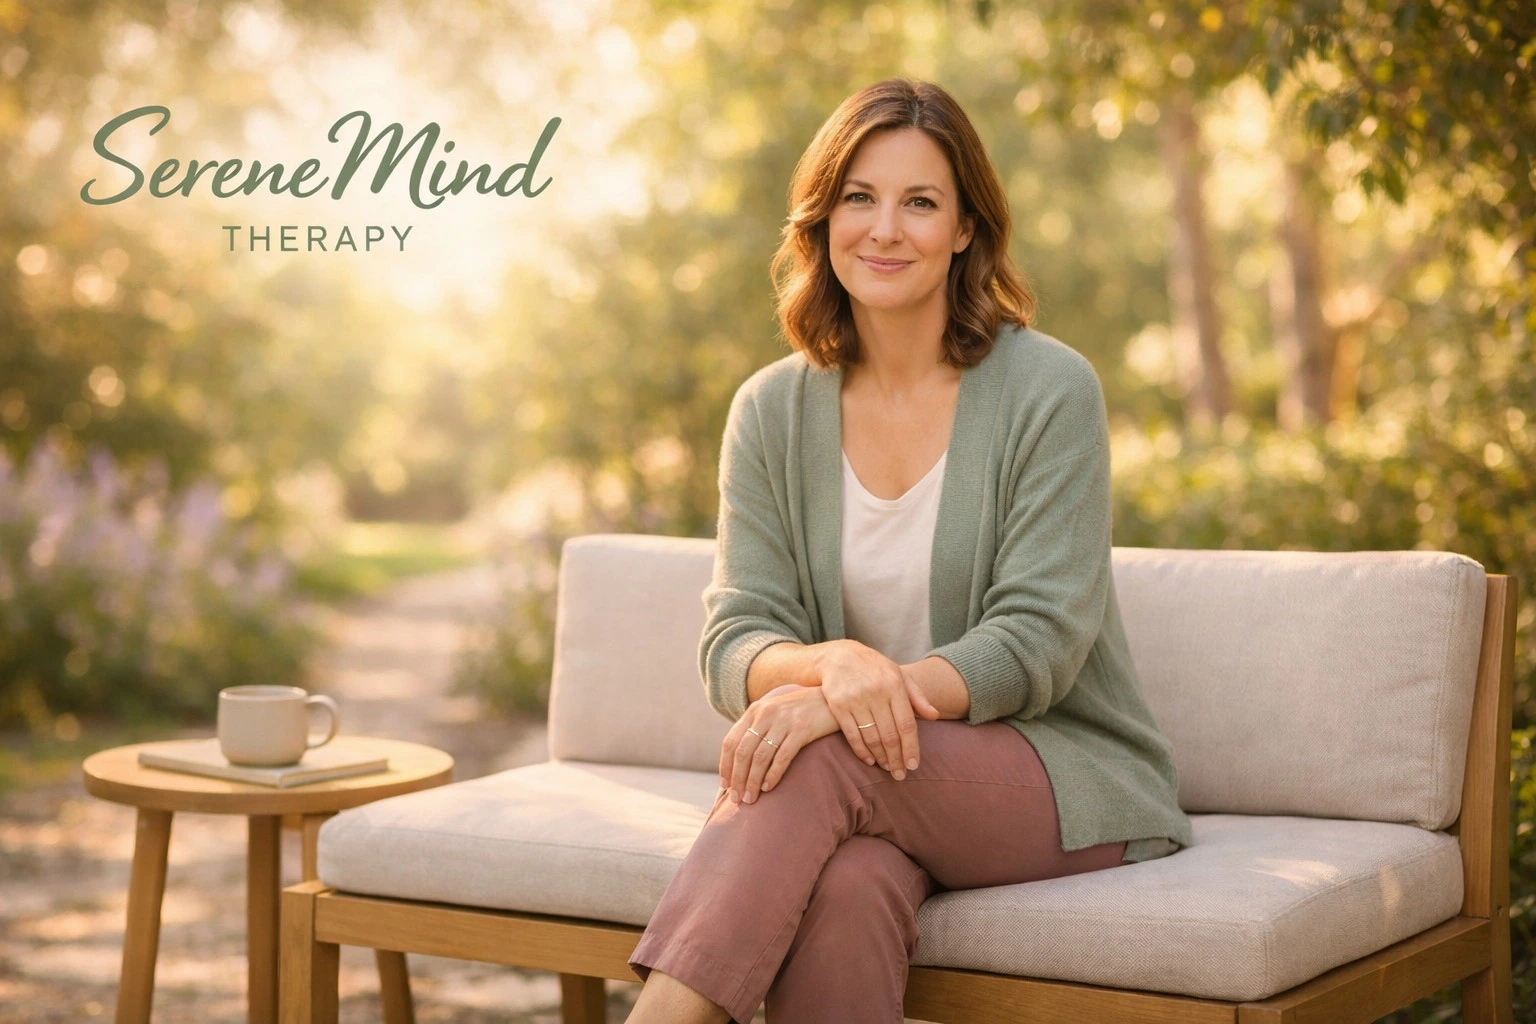
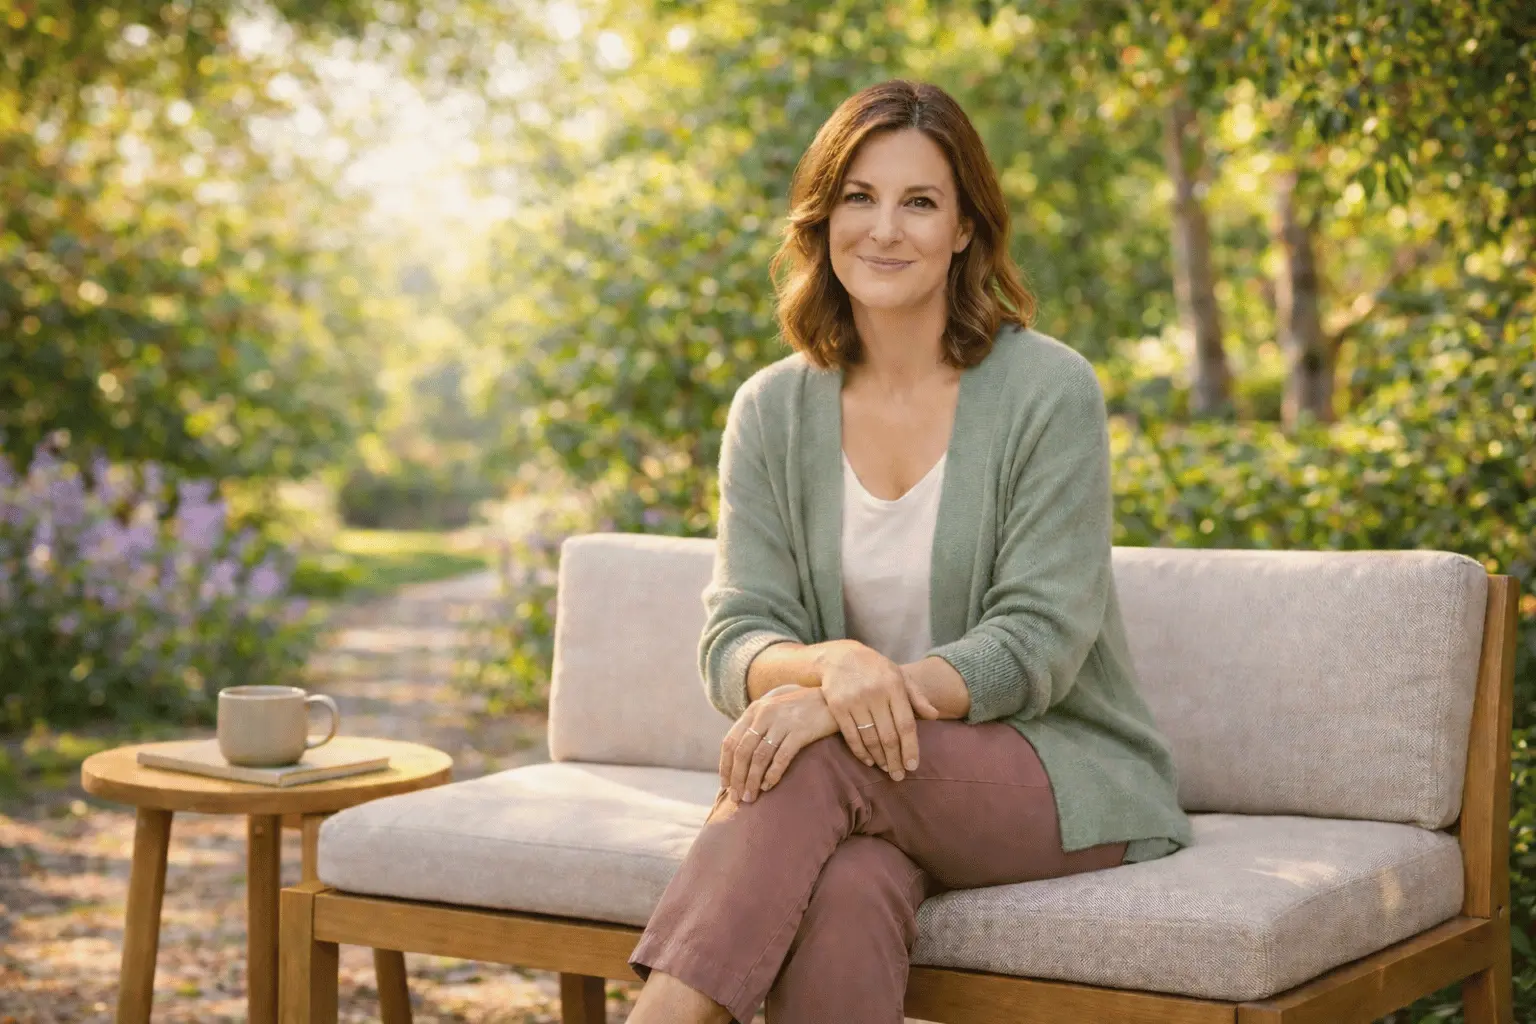
SEO: update INDEXING.md and sitemap lastmod; use individual-therapy.webp on services page

diff --git a/services.html b/services.html
@@ -167,7 +167,7 @@
             </ul>
             <a href="https://calendly.com/serenemindspsychotherapy-info/appointment" class="btn btn-primary" target="_blank" rel="noopener noreferrer">Book This Service →</a>
           </div>
-          <div class="service-row-image"><picture><source srcset="images/individual-therapy-2.webp" type="image/webp"><img src="images/individual-therapy-2.png" alt="Individual therapy session" class="service-row-img" width="480" height="380" loading="lazy"></picture></div>
+          <div class="service-row-image"><picture><source srcset="images/individual-therapy.webp" type="image/webp"><img src="images/individual-therapy.webp" alt="Individual therapy session in a comfortable, confidential setting" class="service-row-img" width="480" height="380" loading="lazy"></picture></div>
         </article>
 
         <!-- Service 2: Couples Counseling (Image Left / Text Right) -->

diff --git a/INDEXING.md b/INDEXING.md
@@ -1,22 +1,22 @@
-# Google Search Console – Indexing Notes
+# Google Search Console – Indexing Notes (Miami Clinical Psychotherapy)
 
-Your sitemap and canonicals are correct (all URLs use `https://serenemindspsychotherapy.com/` with **no www**). The remaining indexing issues are fixed by **server/hosting configuration** and GSC actions.
+Your sitemap and canonicals are correct (all URLs use `https://miamiclinicalpsychotherapy.com/` with **no www**). The remaining indexing issues are fixed by **server/hosting configuration** and GSC actions.
 
 ---
 
 ## 1. Not found (404) – 2 pages
 
 **URLs:**  
-`http://www.serenemindspsychotherapy.com/`  
-`https://www.serenemindspsychotherapy.com/`
+`http://www.miamiclinicalpsychotherapy.com/`  
+`https://www.miamiclinicalpsychotherapy.com/`
 
 **Cause:** The **www** version of the site is not set up (or not redirecting), so Google gets a 404 when it tries those URLs.
 
 **Fix (on your host/server):**
 
 - Add **301 redirects** so that:
-  - `http://www.serenemindspsychotherapy.com/*` → `https://serenemindspsychotherapy.com/*`
-  - `https://www.serenemindspsychotherapy.com/*` → `https://serenemindspsychotherapy.com/*`
+  - `http://www.miamiclinicalpsychotherapy.com/*` → `https://miamiclinicalpsychotherapy.com/*`
+  - `https://www.miamiclinicalpsychotherapy.com/*` → `https://miamiclinicalpsychotherapy.com/*`
 - Or configure the **www** host so it serves the same site and then redirect to the non-www URL.
 
 Do this in your hosting control panel (cPanel, Plesk, Netlify, Vercel, etc.) or via `.htaccess` / Nginx config. After it’s live, in GSC use **Validate fix** for the “Not found (404)” report.
@@ -26,13 +26,13 @@ Do this in your hosting control panel (cPanel, Plesk, Netlify, Vercel, etc.) or 
 ## 2. Crawled – currently not indexed (1 page)
 
 **URL:**  
-`http://serenemindspsychotherapy.com/` (HTTP, no www)
+`http://miamiclinicalpsychotherapy.com/` (HTTP, no www)
 
-**Cause:** Google crawled the **HTTP** URL. Your pages already have a canonical to `https://serenemindspsychotherapy.com/`, which is correct.
+**Cause:** Google crawled the **HTTP** URL. Your pages already have a canonical to `https://miamiclinicalpsychotherapy.com/`, which is correct.
 
 **Fix:**
 
-- On the server, add a **301 redirect**: `http://serenemindspsychotherapy.com/*` → `https://serenemindspsychotherapy.com/*`.
+- On the server, add a **301 redirect**: `http://miamiclinicalpsychotherapy.com/*` → `https://miamiclinicalpsychotherapy.com/*`.
 - After that, you can click **Validate fix** in GSC for “Crawled - currently not indexed” if it’s still shown.
 
 ---
@@ -45,12 +45,12 @@ Do this in your hosting control panel (cPanel, Plesk, Netlify, Vercel, etc.) or 
 
 1. **Old URL `insurance-pricing.html`**  
    On the server, add a **301 redirect**:  
-   `https://serenemindspsychotherapy.com/insurance-pricing.html` → `https://serenemindspsychotherapy.com/pricing.html`  
+   `https://miamiclinicalpsychotherapy.com/insurance-pricing.html` → `https://miamiclinicalpsychotherapy.com/pricing.html`  
    So any old links or sitemap cache point to the correct page.
 
 2. **Other “Discovered - currently not indexed” URLs**  
    - In GSC, open **URL Inspection**, enter the important URLs (e.g. homepage, about, contact, pricing), and use **Request indexing**.
-   - Re-submit the sitemap: **Sitemaps** → submit `sitemap.xml` (or `https://serenemindspsychotherapy.com/sitemap.xml`).
+   - Re-submit the sitemap: **Sitemaps** → submit `sitemap.xml` (or `https://miamiclinicalpsychotherapy.com/sitemap.xml`).
    - Indexing can take days or weeks; “Discovered - currently not indexed” often means Google will index when it recrawls.
 
 ---
@@ -60,8 +60,8 @@ Do this in your hosting control panel (cPanel, Plesk, Netlify, Vercel, etc.) or 
 - [ ] 301 redirect: **www** → **non-www** (http and https).
 - [ ] 301 redirect: **http** → **https** (non-www).
 - [ ] 301 redirect: **insurance-pricing.html** → **pricing.html**.
-- [ ] In GSC, confirm the **property** is `https://serenemindspsychotherapy.com` (no www).
-- [ ] Resubmit **sitemap**: `https://serenemindspsychotherapy.com/sitemap.xml`.
+- [ ] In GSC, confirm the **property** is `https://miamiclinicalpsychotherapy.com` (no www).
+- [ ] Resubmit **sitemap**: `https://miamiclinicalpsychotherapy.com/sitemap.xml`.
 - [ ] Use **URL Inspection** + **Request indexing** for key pages (home, about, contact, services, pricing, blog).
 - [ ] After redirects are live, use **Validate fix** for the 404 and “Crawled - currently not indexed” issues.
 
